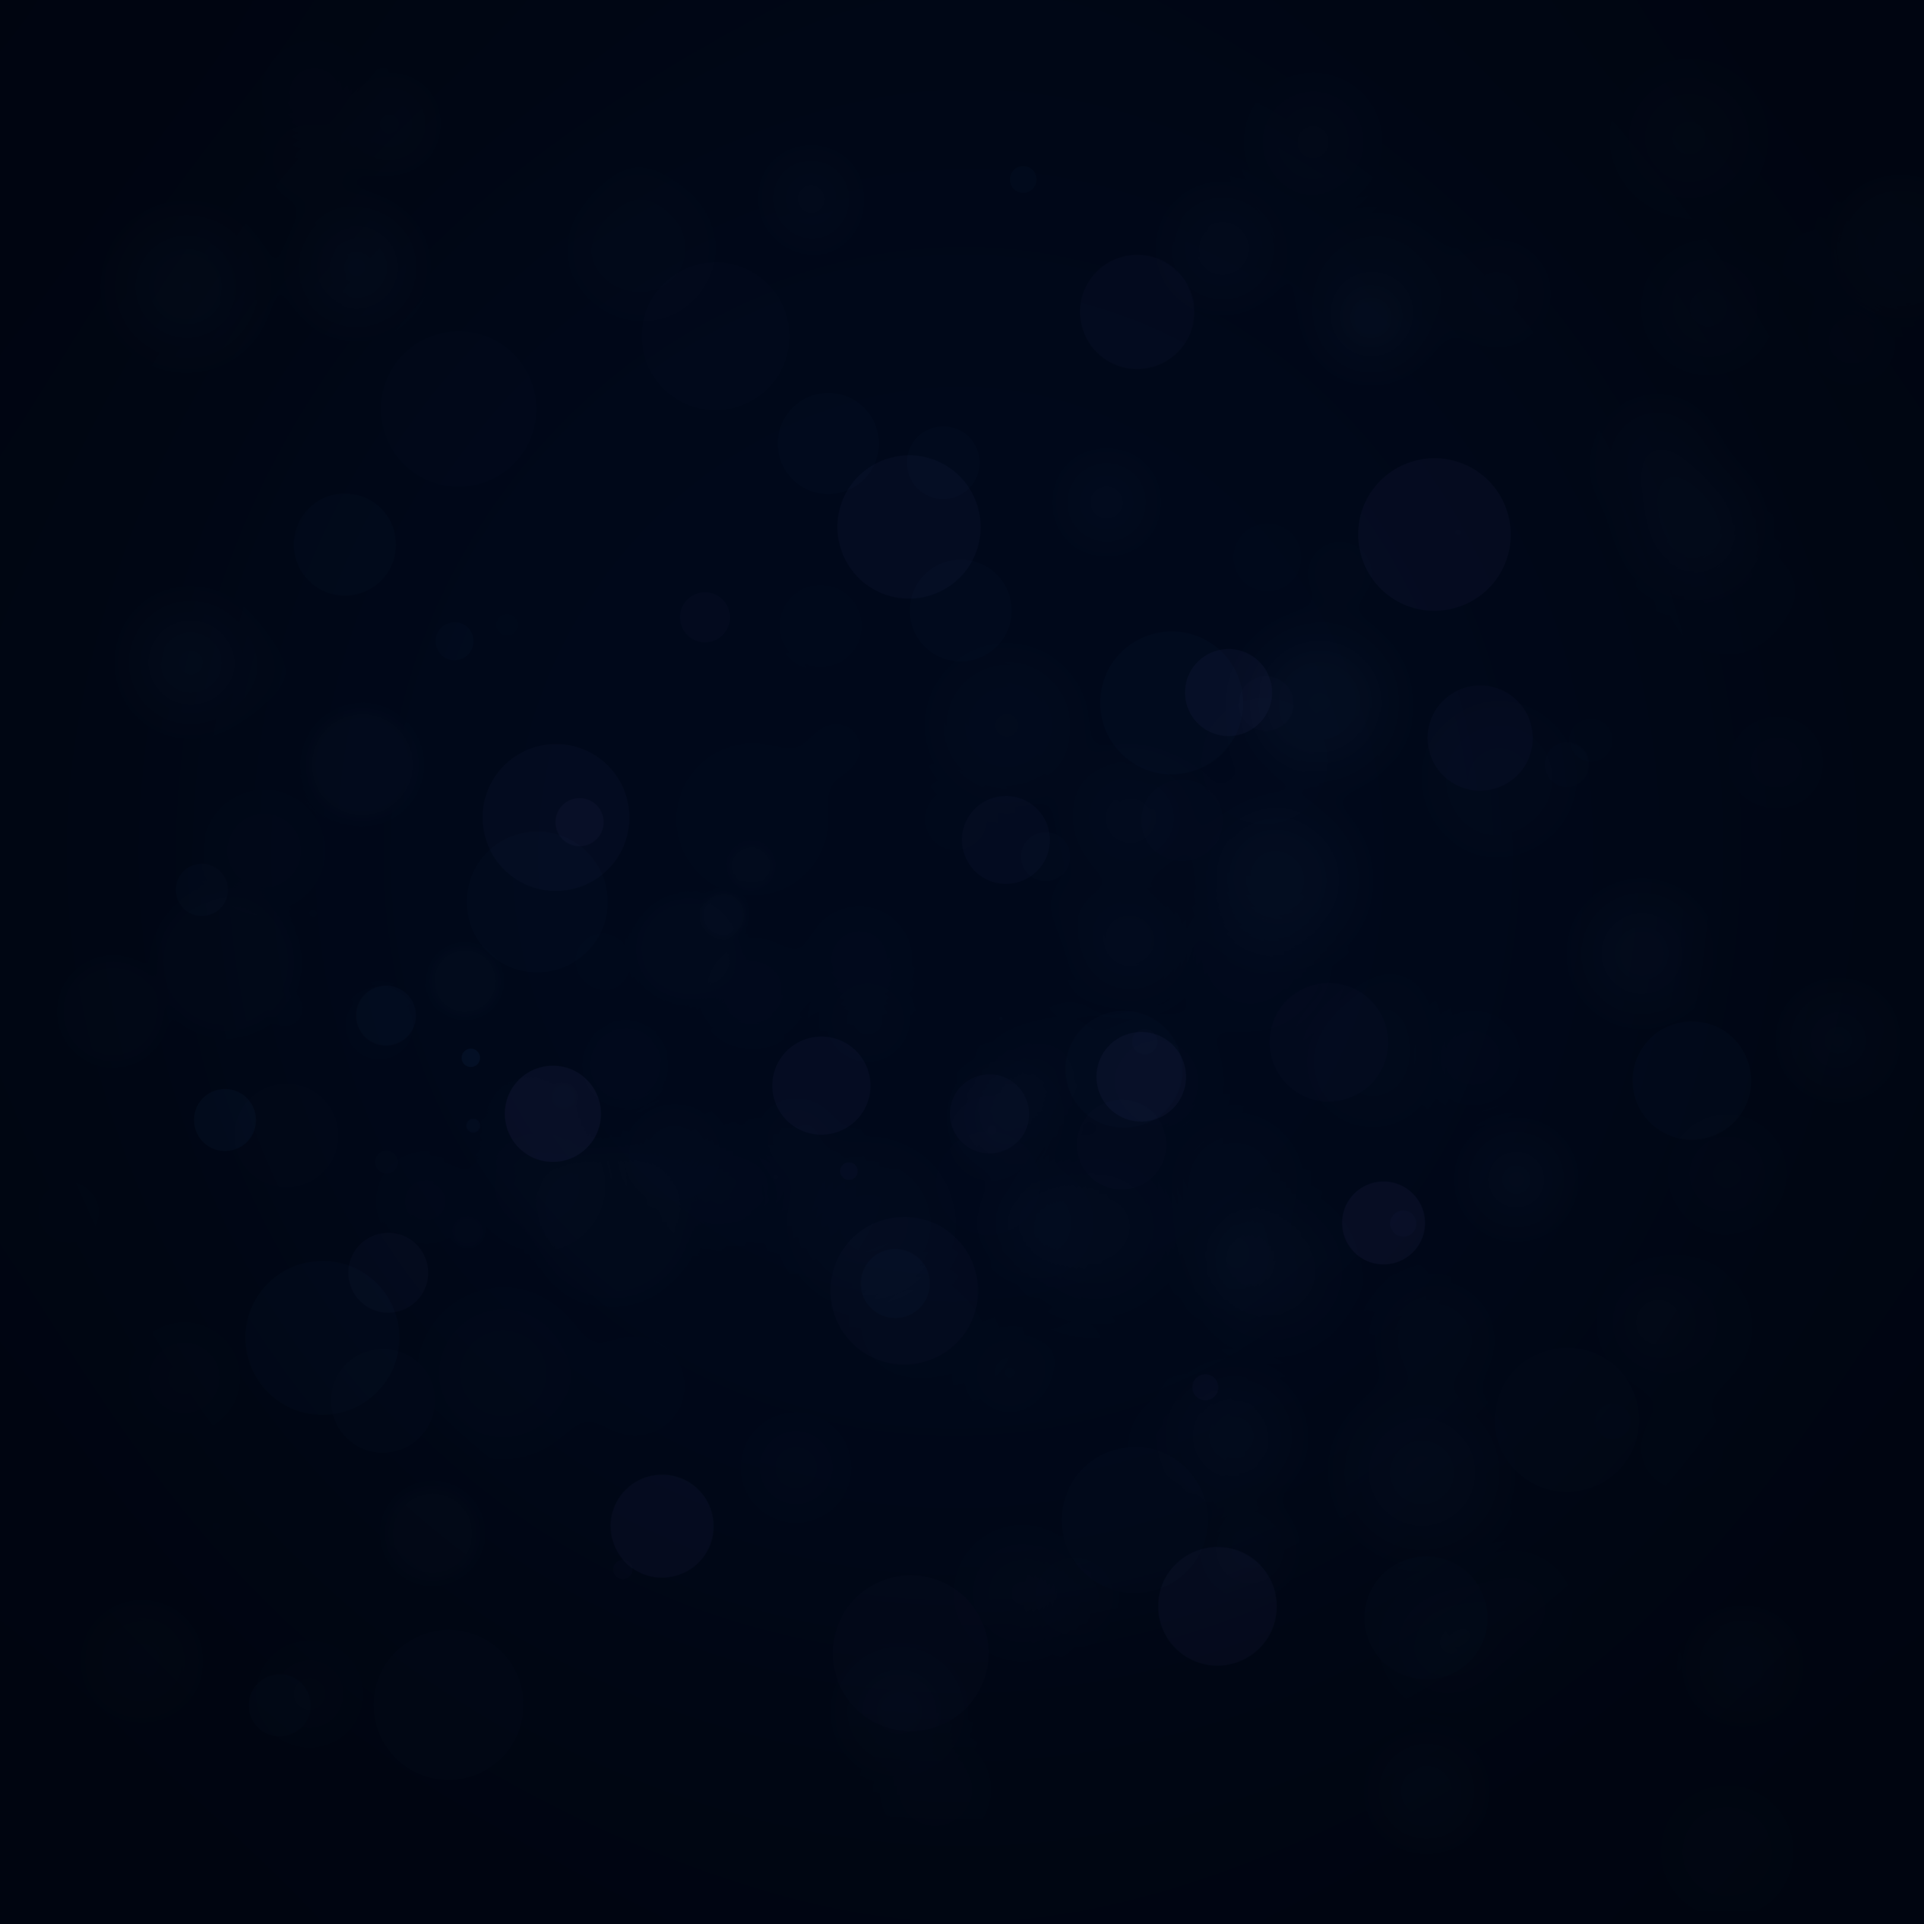
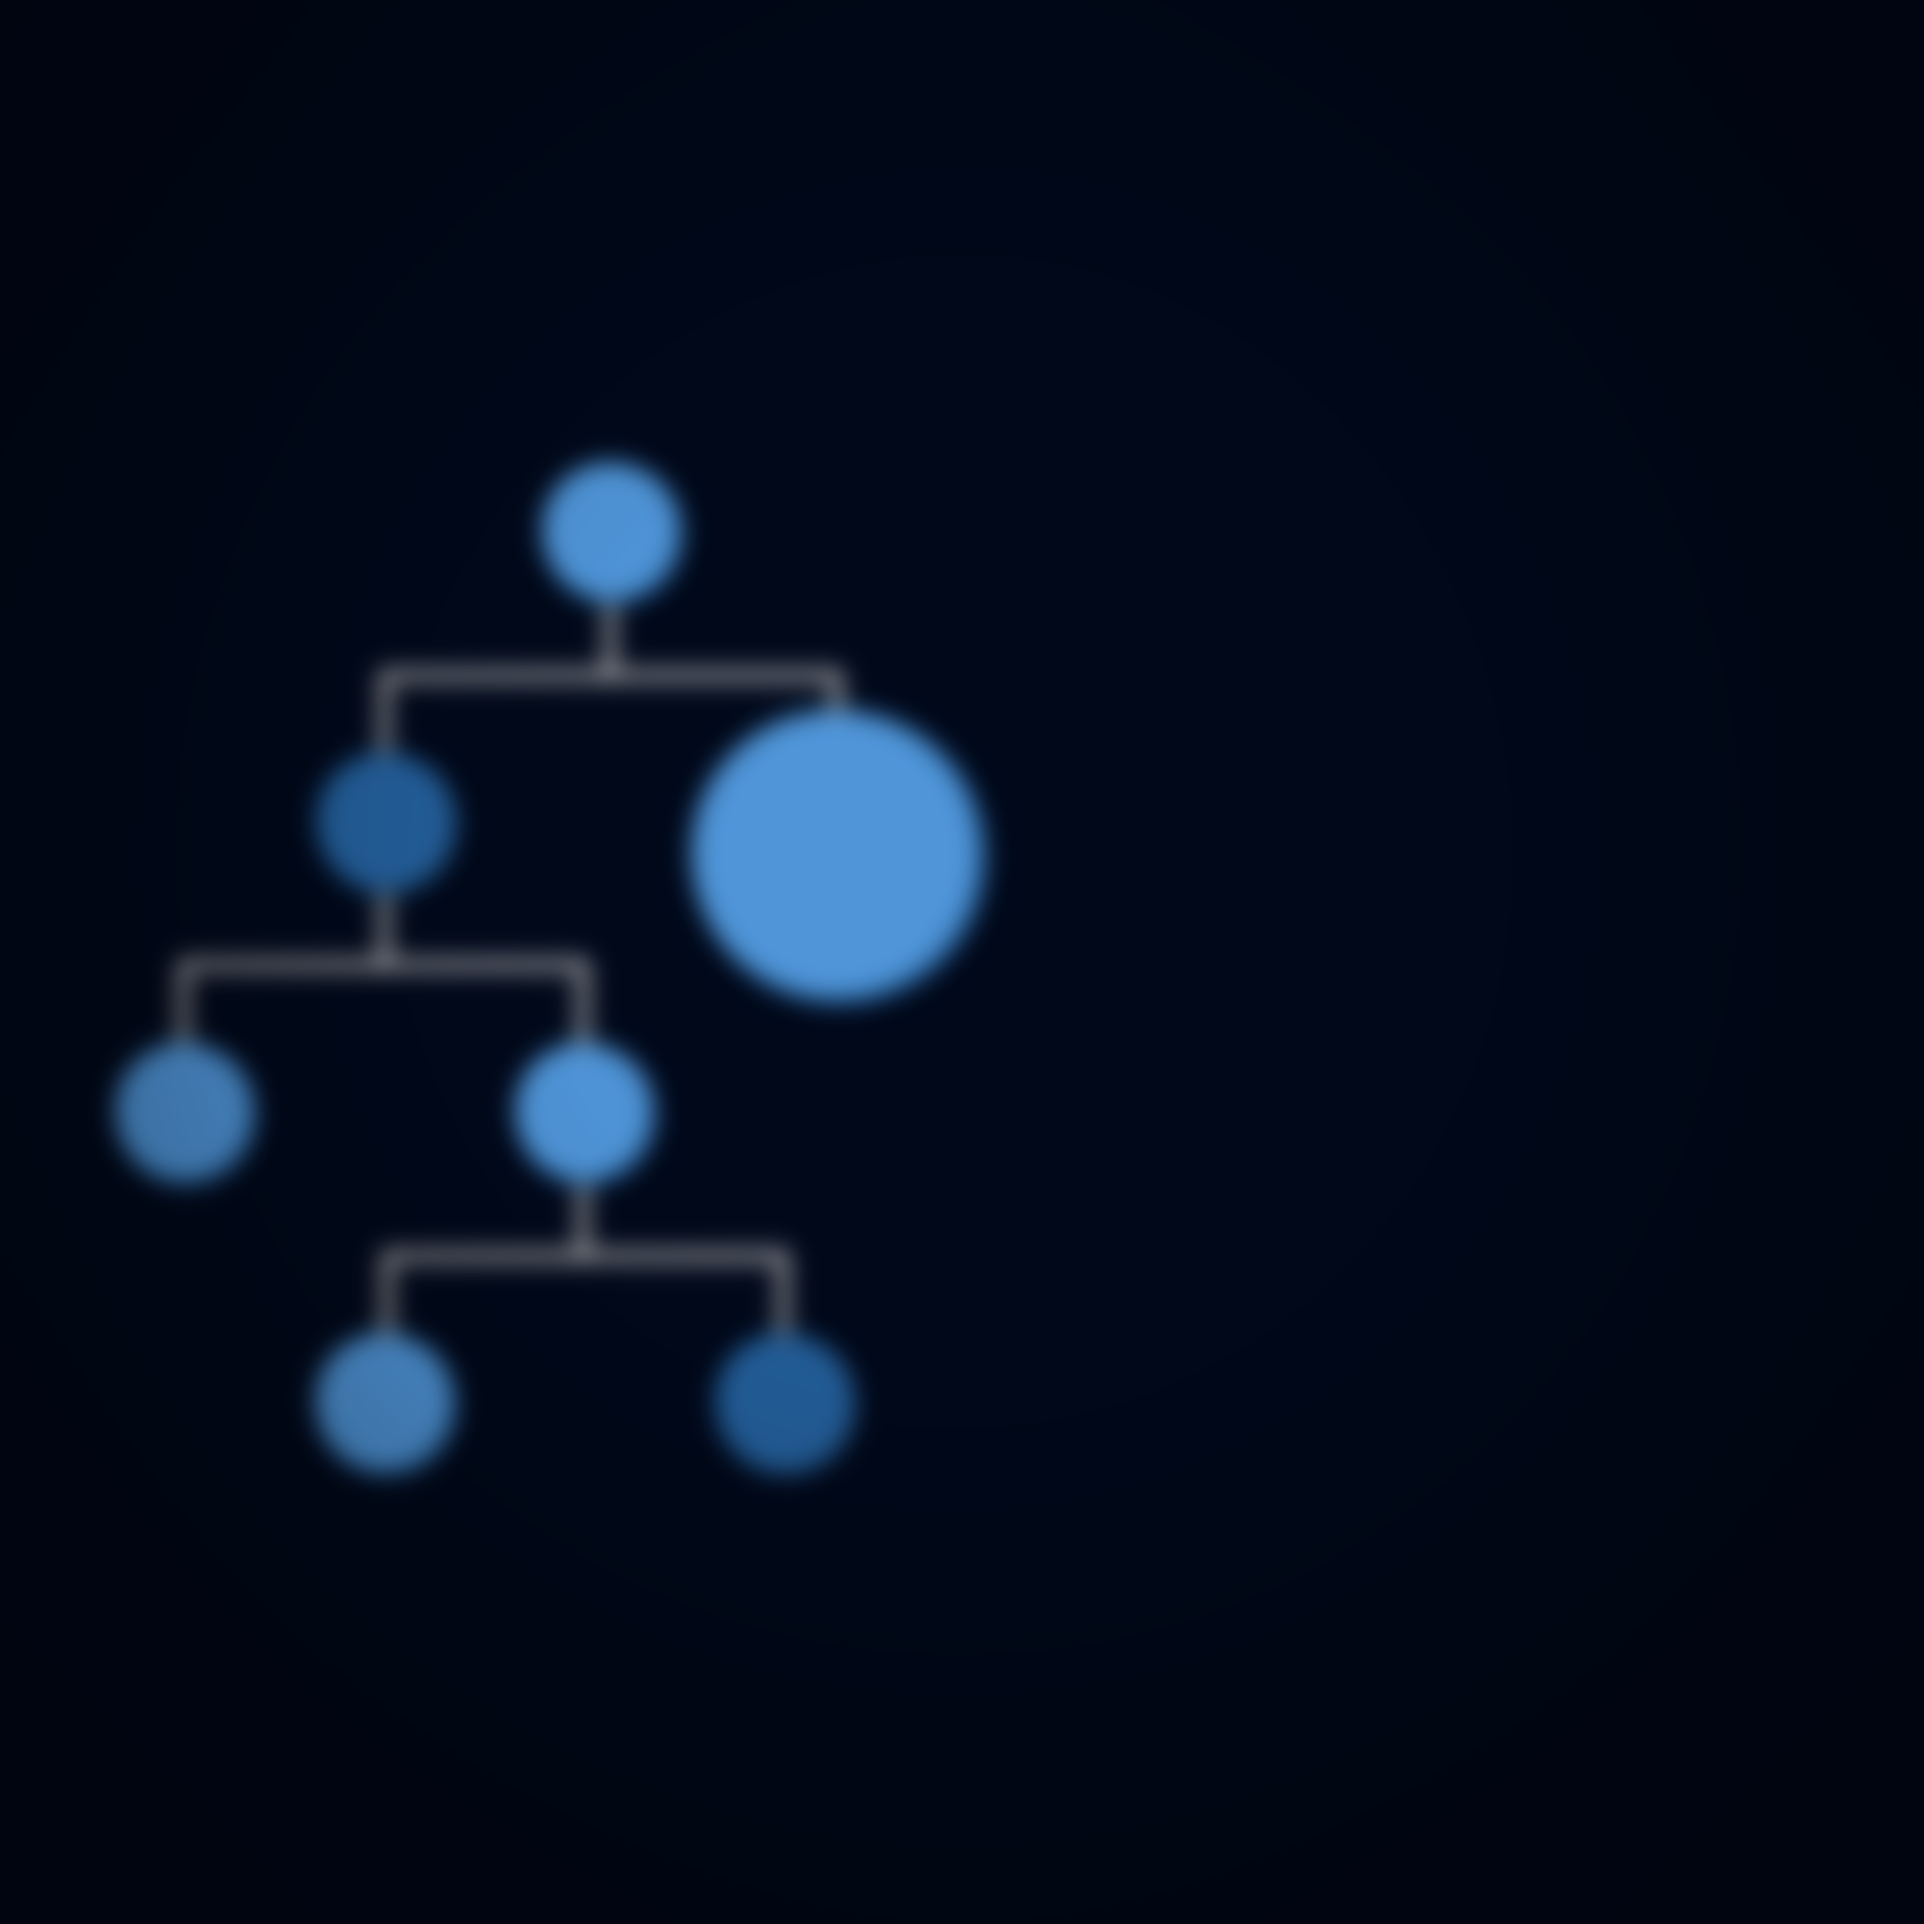
feat(frontend): Enhance ScreenBackground component and update image assets
- Updated ScreenBackground component to support new props: type, noTree, and text for improved background image handling.
- Adjusted usage of ScreenBackground in HomeView, PracticeView, and QuestionView to reflect new prop functionality.
- Updated home page images for better visual quality.

Changed region(s): [[0.0312, 0.2182, 0.5299, 0.7793]]

diff --git a/frontend/src/components/ScreenBackground.vue b/frontend/src/components/ScreenBackground.vue
@@ -1,14 +1,15 @@
 <!--
-Usage:
-<ScreenBackground blur />
-
 Import this component in your Vue file:
 import ScreenBackground from '@/components/ScreenBackground.vue';
 -->
 <template>
-    <div :class="['bg-container', { blur }]">
-        <div v-if="blur" class="overlay"></div>
-        <img :src="blur ? imgBlur : imgNormal" />
+    <div :class="['bg-container', { type }]">
+        <div v-if="type" class="overlay"></div>
+
+		<!-- if text prop is true, use imgNormal, if noTree prop is true, use imgNoTree, otherwise use imgBlur -->
+		<img v-else-if="text" :src="imgNormal" />
+		<img v-else-if="noTree" :src="imgNoTree" />
+		<img v-else :src="imgBlur" />
     </div>
 </template>
 
@@ -16,7 +17,15 @@ import ScreenBackground from '@/components/ScreenBackground.vue';
 import { defineProps } from 'vue';
 import imgNormal from '@/assets/home_page_as_image.png';
 import imgBlur from '@/assets/home_page_as_image_no_text.png';
-defineProps<{ blur?: boolean }>();
+import imgNoTree from '@/assets/home_page_as_image_no_tree.png';
+
+defineProps<{
+  type?: string;
+  blur?: boolean;
+  noTree?: boolean;
+  text?: boolean;
+}>();
+
 </script>
 
 <style scoped>
@@ -34,7 +43,6 @@ defineProps<{ blur?: boolean }>();
     position: fixed;
     top: 0; left: 0; right: 0; bottom: 0;
     z-index: -1;
-    backdrop-filter: blur(5px);
 }
 
 .bg-container img {

diff --git a/frontend/src/views/HomeView.vue b/frontend/src/views/HomeView.vue
@@ -1,6 +1,6 @@
 <template>
 	<div class="home">
-		<ScreenBackground />
+		<ScreenBackground text />
 		<div class="button-container">
 			<CustomButton :action="() => $router.push('/practice')">Solo</CustomButton>
 			<CustomButton :action="() => joinIsOpen = true">Join</CustomButton>

diff --git a/frontend/src/views/PracticeView.vue b/frontend/src/views/PracticeView.vue
@@ -1,5 +1,5 @@
 <template>
-    <ScreenBackground blur />
+    <ScreenBackground noTree />
     <ReturnHomeComponent skipConfirm />
     <div class="question-view">
         <h2 v-if="question">{{ question.title }}</h2>

diff --git a/frontend/src/views/QuestionView.vue b/frontend/src/views/QuestionView.vue
@@ -1,5 +1,5 @@
 <template>
-    <ScreenBackground blur />
+    <ScreenBackground noTree />
     <ReturnHomeComponent 
         :onConfirm="handleReturnHome"/>
     <div class="question-view">
